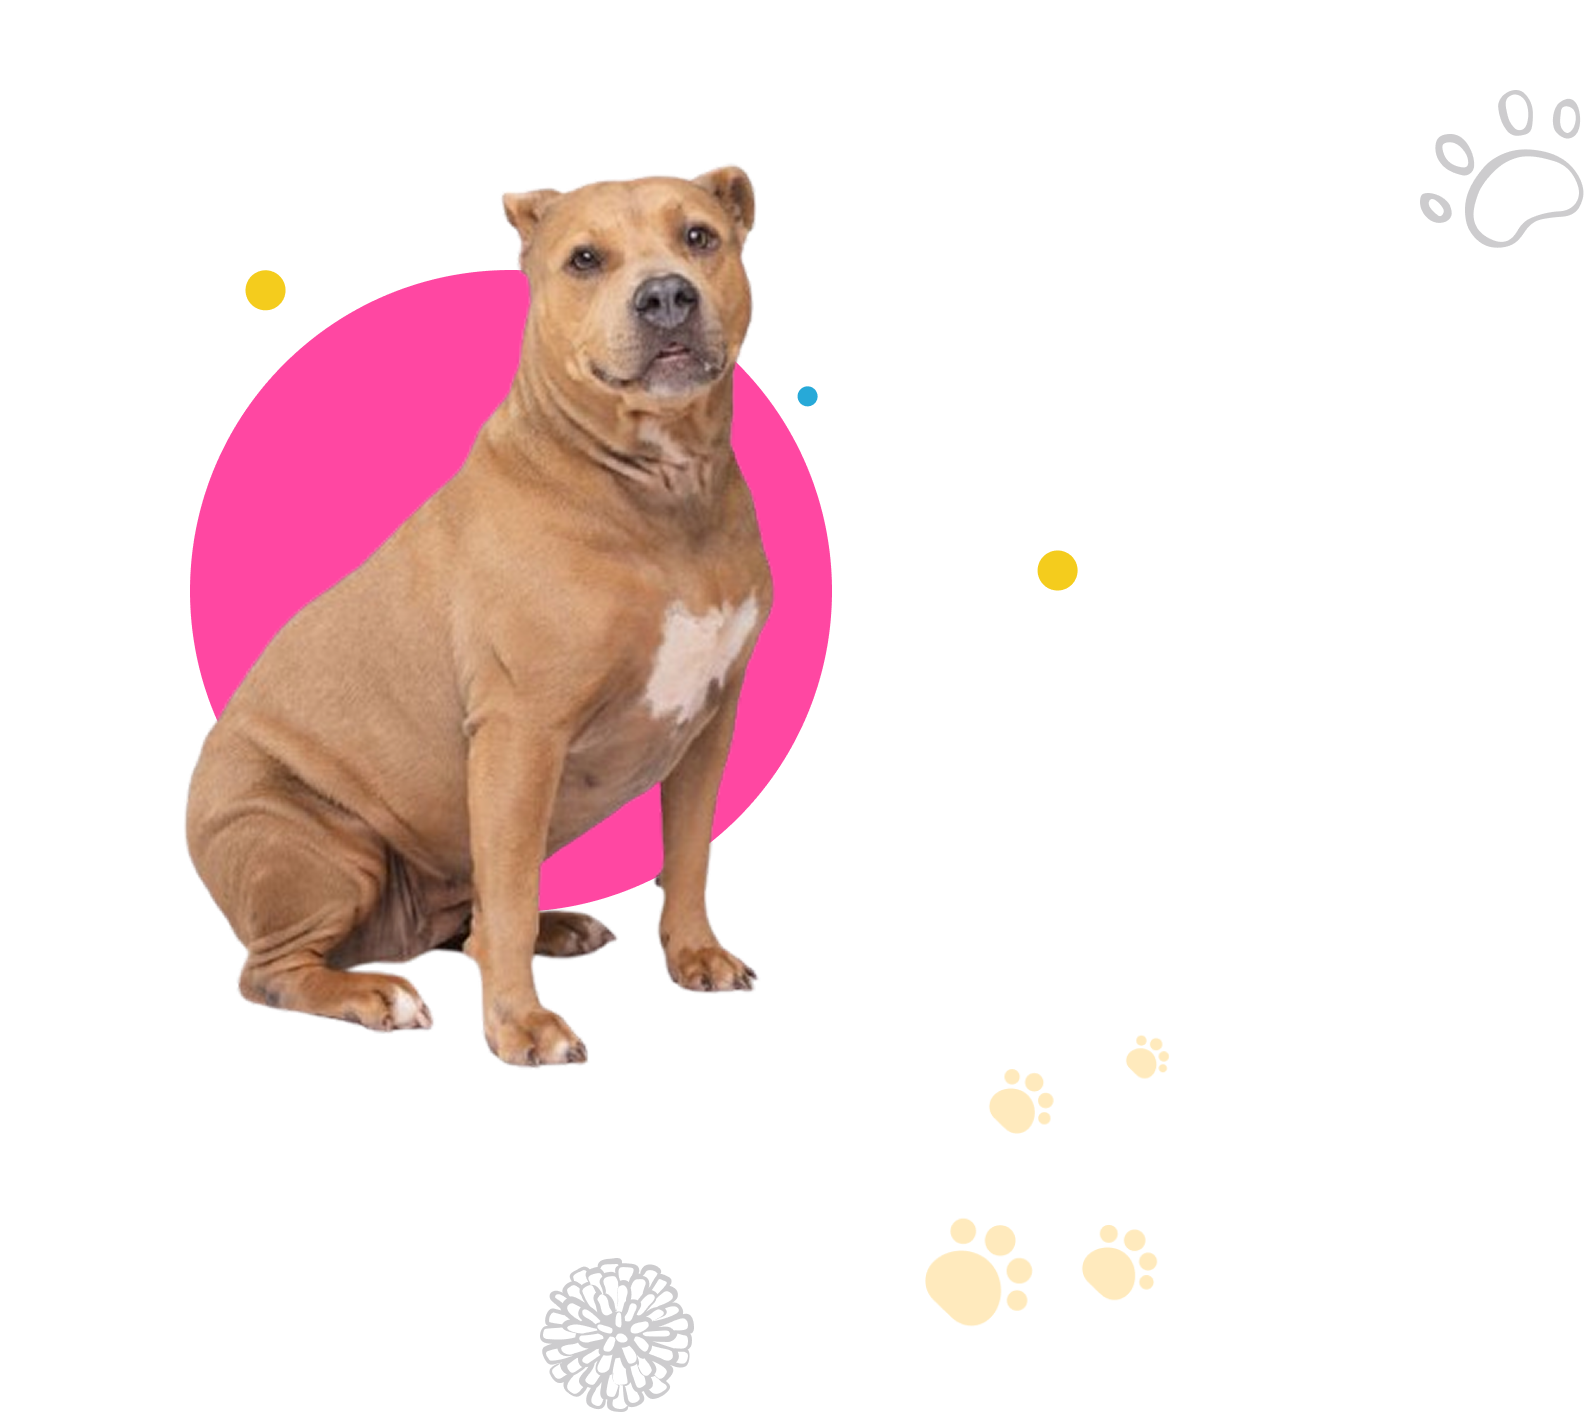
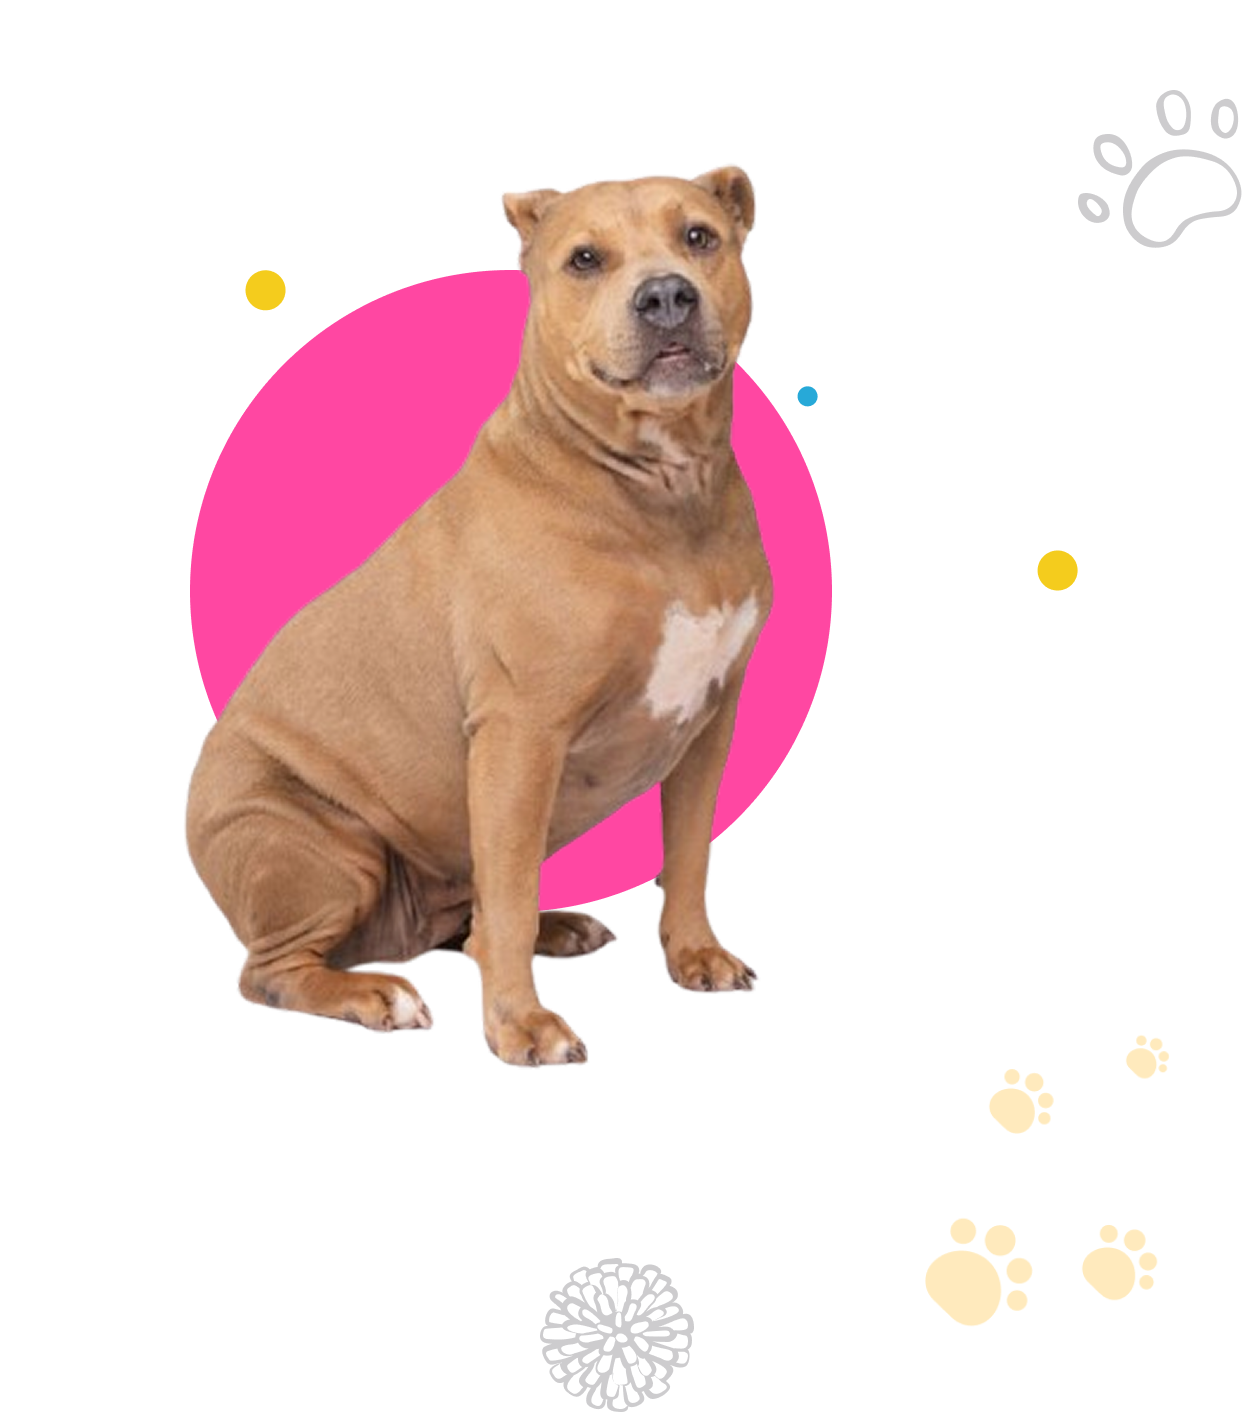
Refactor EmbeddedSite and Hero components for improved structure and styling; update package-lock.json with correct project name; replace left image with updated version.

diff --git a/components/Hero.tsx b/components/Hero.tsx
@@ -2,121 +2,125 @@ import Image from "next/image";
 
 export default function Hero() {
   return (
-    <main className="max-w-[1640px] px-8 mb-8 md:mb-16 mx-auto">
+    <main className="max-w-[1640px] px-8 mb-8 md:mb-16  mx-auto">
       {/* Hero Section */}
-      <section className="flex flex-col md:flex-row items-center justify-between gap-8 relative">
-        {/* Left Dog */}
-        <div className="flex-1 flex justify-center">
-          <div className="">
-            <Image
-              src="/images/hero/left.png"
-              alt="Dog 1"
-              width={1000}
-              height={900}
-              className="w-full h-auto"
-            />
+      <div className="relative pb-8 md:pb-16">
+        <section className="flex flex-col md:flex-row items-center justify-between gap-8 relative">
+          {/* Left Dog */}
+          <div className="flex-1 flex justify-center">
+            <div className="">
+              <Image
+                src="/images/hero/left.png"
+                alt="Dog 1"
+                width={1000}
+                height={900}
+                className="w-full h-auto"
+              />
+            </div>
           </div>
-        </div>
 
-        {/* Text Content */}
-        <div className="flex-1 text-center md:text-center">
-          <h1 className="text-3xl md:text-5xl font-bold mb-4">
-            Every dog deserves to be in a loving home
-          </h1>
-          <p className="text-gray-600 mb-6 max-w-xl mx-auto">
-            At the Bully Project Rescue in Polk county, we believe that we can
-            end breed discrimination and cruelty by working together through
-            education and community support. Whether you’re ready to adopt,
-            foster, donate or volunteer, you can make a difference for Pit Bulls
-            and all Bully Breed dogs in Polk County, Florida.
-          </p>
-          <div className="flex justify-center gap-4">
-            <button className="bg-primary text-white px-6 py-3 rounded-md font-semibold hover:bg-sky-600 transition">
-              Contact Us
-            </button>
-            <button className="flex items-center gap-2 px-6 py-3  text-primary rounded-md font-semibold transition">
-              <span>Explore More</span>
-              <span className="w-5 h-5 flex items-center justify-center">
+          {/* Text Content */}
+          <div className="flex-1 text-center md:text-center">
+            <h1 className="text-3xl md:text-5xl font-bold mb-4">
+              Every dog deserves to be in a loving home
+            </h1>
+            <p className="text-gray-600 mb-6 max-w-xl mx-auto">
+              At the Bully Project Rescue in Polk county, we believe that we can
+              end breed discrimination and cruelty by working together through
+              education and community support. Whether you’re ready to adopt,
+              foster, donate or volunteer, you can make a difference for Pit
+              Bulls and all Bully Breed dogs in Polk County, Florida.
+            </p>
+            <div className="flex flex-col md:flex-row items-center justify-center gap-6">
+              <button className="bg-primary text-white px-6 py-3 rounded-md font-semibold hover:bg-sky-600 transition w-full">
+                Contact Us
+              </button>
+              <button className="flex items-center gap-2  w-full   text-primary rounded-md font-semibold transition">
+                <span className="w-10 h-10 flex items-center justify-center">
+                  <Image
+                    src="/images/hero/link.png"
+                    alt="Dog 1"
+                    width={1000}
+                    height={900}
+                    className="relative z-10 w-full h-auto"
+                  />
+                </span>
+                <span className="block">Explore More</span>
+              </button>
+            </div>
+          </div>
+
+          {/* Right Dog */}
+          <div className="flex-1 flex justify-center">
+            <div className="relative">
+              <Image
+                src="/images/hero/right.png"
+                alt="Dog 2"
+                width={460}
+                height={580}
+                className="relative z-10 w-[400px] h-auto"
+              />
+            </div>
+          </div>
+        </section>
+
+        {/* Floating Info Cards */}
+        <section className=" lg:absolute mt-6 md:mt-0 left-0 right-0 -bottom-[30%] z-20">
+          <div className="grid grid-cols-1 md:grid-cols-3 gap-6  bg-white  shadow-medium rounded-2xl p-6 lg:p-10 text-center transition max-w-5xl mx-auto">
+            <div className="">
+              <div className="flex justify-center mb-4 text-3xl text-yellow-500">
                 <Image
-                  src="/images/hero/link.png"
-                  alt="Dog 1"
-                  width={1000}
-                  height={900}
-                  className="relative z-10 w-[600px] h-auto"
+                  src="/images/hero/float1.png"
+                  alt="Dog 2"
+                  width={460}
+                  height={580}
+                  className="relative z-10 w-16 h-auto"
                 />
-              </span>
-            </button>
-          </div>
-        </div>
-
-        {/* Right Dog */}
-        <div className="flex-1 flex justify-center">
-          <div className="relative">
-            <Image
-              src="/images/hero/right.png"
-              alt="Dog 2"
-              width={460}
-              height={580}
-              className="relative z-10 w-[400px] h-auto"
-            />
-          </div>
-        </div>
-      </section>
-
-      {/* Floating Info Cards */}
-      <section className="relative z-20  transform translate-y-[80%]">
-        <div className="grid grid-cols-1 md:grid-cols-3 gap-6 border bg-white shadow-xl rounded-2xl p-6 text-center transition">
-          <div className="">
-            <div className="flex justify-center mb-4 text-3xl text-yellow-500">
-              <Image
-                src="/images/hero/float1.png"
-                alt="Dog 2"
-                width={460}
-                height={580}
-                className="relative z-10 w-16 h-auto"
-              />
+              </div>
+              <h3 className="font-semibold text-lg mb-2">
+                Want to adopt a dog?
+              </h3>
+              <p className="text-gray-600 text-sm">
+                Lorem ipsum dolor sit amet, consectetur adipiscing elit.
+              </p>
             </div>
-            <h3 className="font-semibold text-lg mb-2">Want to adopt a dog?</h3>
-            <p className="text-gray-600 text-sm">
-              Lorem ipsum dolor sit amet, consectetur adipiscing elit.
-            </p>
-          </div>
 
-          <div className="">
-            <div className="flex justify-center mb-4 text-3xl text-green-500">
-              <Image
-                src="/images/hero/float2.png"
-                alt="Dog 2"
-                width={460}
-                height={580}
-                className="relative z-10 w-16 h-auto"
-              />
+            <div className="">
+              <div className="flex justify-center mb-4 text-3xl text-green-500 ">
+                <Image
+                  src="/images/hero/float2.png"
+                  alt="Dog 2"
+                  width={460}
+                  height={580}
+                  className="relative z-10 w-16 h-auto"
+                />
+              </div>
+              <h3 className="font-semibold text-lg mb-2">
+                Need to rehome a dog?
+              </h3>
+              <p className="text-gray-600 text-sm">
+                Lorem ipsum dolor sit amet, consectetur adipiscing elit.
+              </p>
             </div>
-            <h3 className="font-semibold text-lg mb-2">
-              Need to rehome a dog?
-            </h3>
-            <p className="text-gray-600 text-sm">
-              Lorem ipsum dolor sit amet, consectetur adipiscing elit.
-            </p>
-          </div>
 
-          <div className="">
-            <div className="flex justify-center mb-4 text-3xl text-indigo-500">
-              <Image
-                src="/images/hero/float3.png"
-                alt="Dog 2"
-                width={460}
-                height={580}
-                className="relative z-10 w-16 h-auto"
-              />
+            <div className="">
+              <div className="flex justify-center mb-4 text-3xl text-indigo-500">
+                <Image
+                  src="/images/hero/float3.png"
+                  alt="Dog 2"
+                  width={460}
+                  height={580}
+                  className="relative z-10 w-16 h-auto"
+                />
+              </div>
+              <h3 className="font-semibold text-lg mb-2">Make a donation</h3>
+              <p className="text-gray-600 text-sm">
+                Lorem ipsum dolor sit amet, consectetur adipiscing elit.
+              </p>
             </div>
-            <h3 className="font-semibold text-lg mb-2">Make a donation</h3>
-            <p className="text-gray-600 text-sm">
-              Lorem ipsum dolor sit amet, consectetur adipiscing elit.
-            </p>
           </div>
-        </div>
-      </section>
+        </section>
+      </div>
     </main>
   );
 }

diff --git a/components/EmbeddedSite.tsx b/components/EmbeddedSite.tsx
@@ -1,12 +1,17 @@
 export default function EmbeddedSite() {
-    return (
-
-        <section className="bg-[#F5F9FA] 2xl:pt-[200px] pb-12" >
-            <div className="max-w-[1640px] px-8 mb-8 md:mb-16 mx-auto">
-                <div className="textwidget"><p><iframe loading="lazy" style={{ height: 800, width: "100%" }} src="https://www.wagtopia.com/search/org?id=1233589&iframe=normal"></iframe></p>
-                </div>
-            </div>
-        </section>
-
-    );
+  return (
+    <section className="bg-[#F5F9FA] lg:pt-[200px] pb-12">
+      <div className="max-w-[1640px] px-8 mb-8 md:mb-16 mx-auto">
+        <div className="textwidget">
+          <p>
+            <iframe
+              loading="lazy"
+              style={{ height: 800, width: "100%" }}
+              src="https://www.wagtopia.com/search/org?id=1233589&iframe=normal"
+            ></iframe>
+          </p>
+        </div>
+      </div>
+    </section>
+  );
 }
